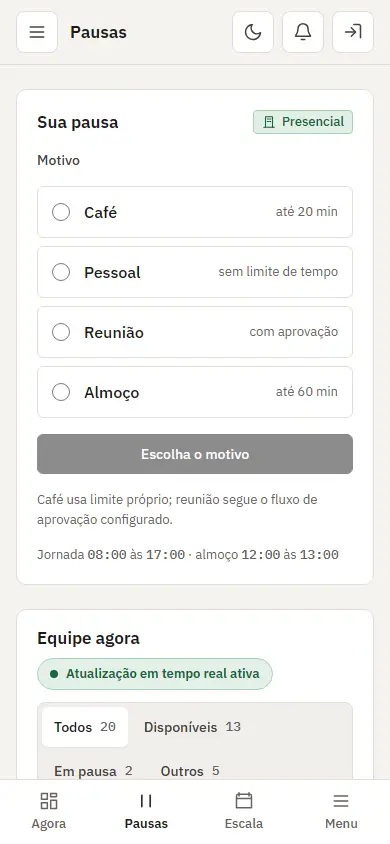
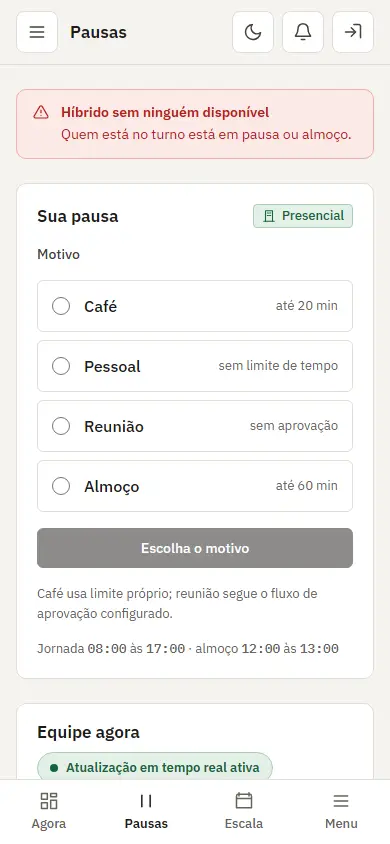
feat: reuniao sem aprovacao e destaque "sem ninguem disponivel" nas telas (F9)
Desenho principal, 9.15.17 (AD-F9-1 e AD-F9-2). Pausas: no Critico e no
Hibrido, a reuniao diz "sem aprovacao" e "Iniciar reuniao" (o servidor
inicia direto, com a regra de pelo menos 1 disponivel); o aviso
"Critico sem ninguem disponivel" (ou Hibrido) no topo e o selo no
grupo, por texto e nao so cor. Visao operacional com o mesmo aviso, pelo
status ao vivo ou pelo dashboard.php. N1 e N2 como antes. AD-F9-4: o
formulario aceita o almoco do Hibrido as 18:00 e o filtro mostra a
opcao (QA). Bloco 28 do navegador e capturas do F9 com o destaque.

Changed region(s): [[0.0308, 0.0924, 0.9846, 0.9242], [0.8923, 0.8318, 0.9231, 0.8626], [0.8308, 0.7393, 0.8615, 0.7701]]

diff --git a/frontend/src/pages/PausasPage.jsx b/frontend/src/pages/PausasPage.jsx
@@ -7,7 +7,7 @@ import { EmptyState } from '../components/ui/States'
 import { hasPermission } from '../lib/roles'
 import { nowLegendItem } from '../lib/presenceLegend'
 import { clockDuration, isLunch, isMeeting, lunchIntervalSeconds, LUNCH_NO_LIMIT_NOTE, LUNCH_REASON, pauseLimitSeconds, pauseTiming, pauseTimingNote } from '../lib/pauseTimer'
-import { isCriticalTeam, WORK_TEAMS } from '../lib/teams'
+import { isCriticalTeam, meetingNeedsApproval, noneAvailableLabels, WORK_TEAMS } from '../lib/teams'
 
 // [R4a] Os três motivos ficam visíveis (D-R0-5): escolher e confirmar com um
 // botão que diz o que vai acontecer. Dois toques, no lugar de três.
@@ -105,7 +105,10 @@ function ActivePause({ current, elapsed, loading, onFinish }) {
 function StartPause({ current, loading, onStart, onRequest }) {
   const [reason, setReason] = useState('')
   const [observation, setObservation] = useState('')
-  const reasons = isCriticalTeam(current?.equipe) ? [...REASONS, LUNCH] : REASONS
+  // [AD-F9-2] Reunião sem aprovação no Crítico e no Híbrido (o servidor confere a regra de pelo menos 1 disponível).
+  const meetingFree = current ? !meetingNeedsApproval(current.equipe) && current.equipe !== 'n2' : false
+  const baseReasons = meetingFree ? REASONS.map((item) => (item.value === 'Reunião' ? { ...item, action: 'Iniciar reunião' } : item)) : REASONS
+  const reasons = isCriticalTeam(current?.equipe) ? [...baseReasons, LUNCH] : baseReasons
   const chosen = reasons.find((item) => item.value === reason) ?? null
   const meeting = reason === 'Reunião'
   // Limite do café pela configuração que o servidor manda (sem pausa, o
@@ -116,7 +119,7 @@ function StartPause({ current, loading, onStart, onRequest }) {
   const hints = {
     'Café': coffeeLimit > 0 ? `até ${Math.round(coffeeLimit / 60)} min` : 'com limite de tempo',
     'Pessoal': 'sem limite de tempo',
-    'Reunião': 'com aprovação',
+    'Reunião': meetingFree ? 'sem aprovação' : 'com aprovação',
     [LUNCH_REASON]: lunchLimit !== null ? `até ${Math.round(lunchLimit / 60)} min` : 'sem limite automático',
   }
 
@@ -218,7 +221,7 @@ function TeamRow({ item, elapsedFor, canForceEndBreak, loading, onForceEndBreak 
   )
 }
 
-function TeamPanel({ teams, livePauses, canForceEndBreak, loading, onForceEndBreak }) {
+function TeamPanel({ teams, noneAvailable = [], livePauses, canForceEndBreak, loading, onForceEndBreak }) {
   const [filter, setFilter] = useState('todos')
   const all = teams.flatMap(([, items]) => items)
   const counts = { todos: all.length, available: 0, paused: 0, outros: 0 }
@@ -257,6 +260,8 @@ function TeamPanel({ teams, livePauses, canForceEndBreak, loading, onForceEndBre
                     Equipe {title} · {items.filter((item) => operatorState(item)[0] === 'available').length} de {items.length} disponíveis
                     {/* [F9, D-F9-18] Destaque do Crítico por selo e rótulo, nunca só pela cor. */}
                     {isCriticalTeam(title) && <> <Tag tone="warning">Equipe crítica</Tag></>}
+                    {/* [AD-F9-1] Destaque por selo e texto, não só pela cor. */}
+                    {noneAvailable.includes(`${title} sem ninguém disponível`) && <> <Tag tone="danger">{`${title} sem ninguém disponível`}</Tag></>}
                   </th>
                 </tr>
                 {rows.map((item) => <TeamRow canForceEndBreak={canForceEndBreak} elapsedFor={livePauses.elapsedFor} item={item} key={item.id} loading={loading} onForceEndBreak={onForceEndBreak} />)}
@@ -275,9 +280,13 @@ export function PausasPage({ session, status, livePauses, loading, onStart, onRe
   const current = employees.find((item) => Number(item.id) === Number(session.ci.funcionario_id))
   const canForceEndBreak = hasPermission(session, 'pausas.force_end')
   const teams = WORK_TEAMS.map((team) => [team.label, status[team.value] || []])
+  const noneAvailable = noneAvailableLabels(status.disponibilidade_equipes)
 
   return (
     <div className="space-y-6">
+      {noneAvailable.map((label) => (
+        <InlineAlert key={label} title={label} tone="danger"><span data-none-available="">Quem está no turno está em pausa ou almoço.</span></InlineAlert>
+      ))}
       {!session.ci.autenticado && (
         <InlineAlert tone="info">A sessão administrativa permite monitoramento. Entre como CI para iniciar ou finalizar sua própria pausa.</InlineAlert>
       )}
@@ -285,7 +294,7 @@ export function PausasPage({ session, status, livePauses, loading, onStart, onRe
         {session.ci.autenticado && (
           <MyPause current={current} elapsed={current ? livePauses.elapsedFor(current) : 0} loading={loading} onFinish={onFinish} onRequest={onRequest} onStart={onStart} />
         )}
-        <TeamPanel canForceEndBreak={canForceEndBreak} livePauses={livePauses} loading={loading} onForceEndBreak={onForceEndBreak} teams={teams} />
+        <TeamPanel canForceEndBreak={canForceEndBreak} livePauses={livePauses} loading={loading} noneAvailable={noneAvailable} onForceEndBreak={onForceEndBreak} teams={teams} />
       </div>
     </div>
   )

diff --git a/frontend/src/pages/DashboardPage.jsx b/frontend/src/pages/DashboardPage.jsx
@@ -7,7 +7,7 @@ import { Icon } from '../components/ui/Icon'
 import { hasPermission } from '../lib/roles'
 import { OPERATIONAL_SUMMARY_COLUMNS, serverClock, summaryCount } from '../lib/presenceLegend'
 import { clockDuration, isLunch, isMeeting, pauseTiming, pauseTimingNote } from '../lib/pauseTimer'
-import { teamShort, WORK_TEAMS } from '../lib/teams'
+import { noneAvailableLabels, teamShort, WORK_TEAMS } from '../lib/teams'
 
 // [R4b] Os totais do dashboard.php, numa lista compacta no pé da tela (saem os
 // 8 cartões iguais). Os rótulos são os de antes; o número vem do servidor.
@@ -380,6 +380,10 @@ export function DashboardPage({ navigate, session, livePauses, loading, onForceE
           A presença de agora não foi calculada (desligada ou com falha no servidor). Os números aparecem como "—" até a próxima atualização que os traga.
         </InlineAlert>
       )}
+      {/* [AD-F9-1] Crítico ou Híbrido sem ninguém disponível: selo e texto, não só cor. */}
+      {noneAvailableLabels(livePauses.status?.disponibilidade_equipes ?? data?.disponibilidade_equipes).map((label) => (
+        <InlineAlert key={label} title={label} tone="danger"><span data-none-available="">Quem está no turno está em pausa ou almoço.</span></InlineAlert>
+      ))}
       {presence !== null && !pausesAvailable && (
         <InlineAlert tone="warning" title="Pausas indisponíveis">
           O estado das pausas não pôde ser lido: Em pausa aparece como "—", e quem está em pausa conta pela escala até a leitura voltar.

diff --git a/frontend/src/lib/teams.ts b/frontend/src/lib/teams.ts
@@ -33,6 +33,22 @@ export function teamShort(team: unknown): string {
   return value === 'critico' || value === 'hibrido' ? LABELS[value] : String(team ?? '').toUpperCase()
 }
 
+// [AD-F9-1 e AD-F9-2] Crítico e Híbrido: reunião sem aprovação e a regra de
+// pelo menos 1 disponível (a conta é do servidor; a tela só mostra).
+export const AVAILABILITY_TEAMS = ['critico', 'hibrido']
+
+const plain = (team: unknown): string => String(team ?? '').trim().toLowerCase().normalize('NFD').replace(/[\u0300-\u036f]/g, '')
+
+export function meetingNeedsApproval(team: unknown): boolean {
+  return !['n2', ...AVAILABILITY_TEAMS].includes(plain(team))
+}
+
+// Destaque "Crítico sem ninguém disponível" pela disponibilidade_equipes do servidor.
+export function noneAvailableLabels(situation: unknown): string[] {
+  const data = (situation && typeof situation === 'object' ? situation : {}) as Record<string, { sem_disponivel?: unknown } | undefined>
+  return AVAILABILITY_TEAMS.filter((team) => data[team]?.sem_disponivel === true).map((team) => `${LABELS[team]} sem ninguém disponível`)
+}
+
 export function isCriticalTeam(team: unknown): boolean {
   return String(team ?? '').trim().toLowerCase().normalize('NFD').replace(/[\u0300-\u036f]/g, '') === 'critico'
 }
